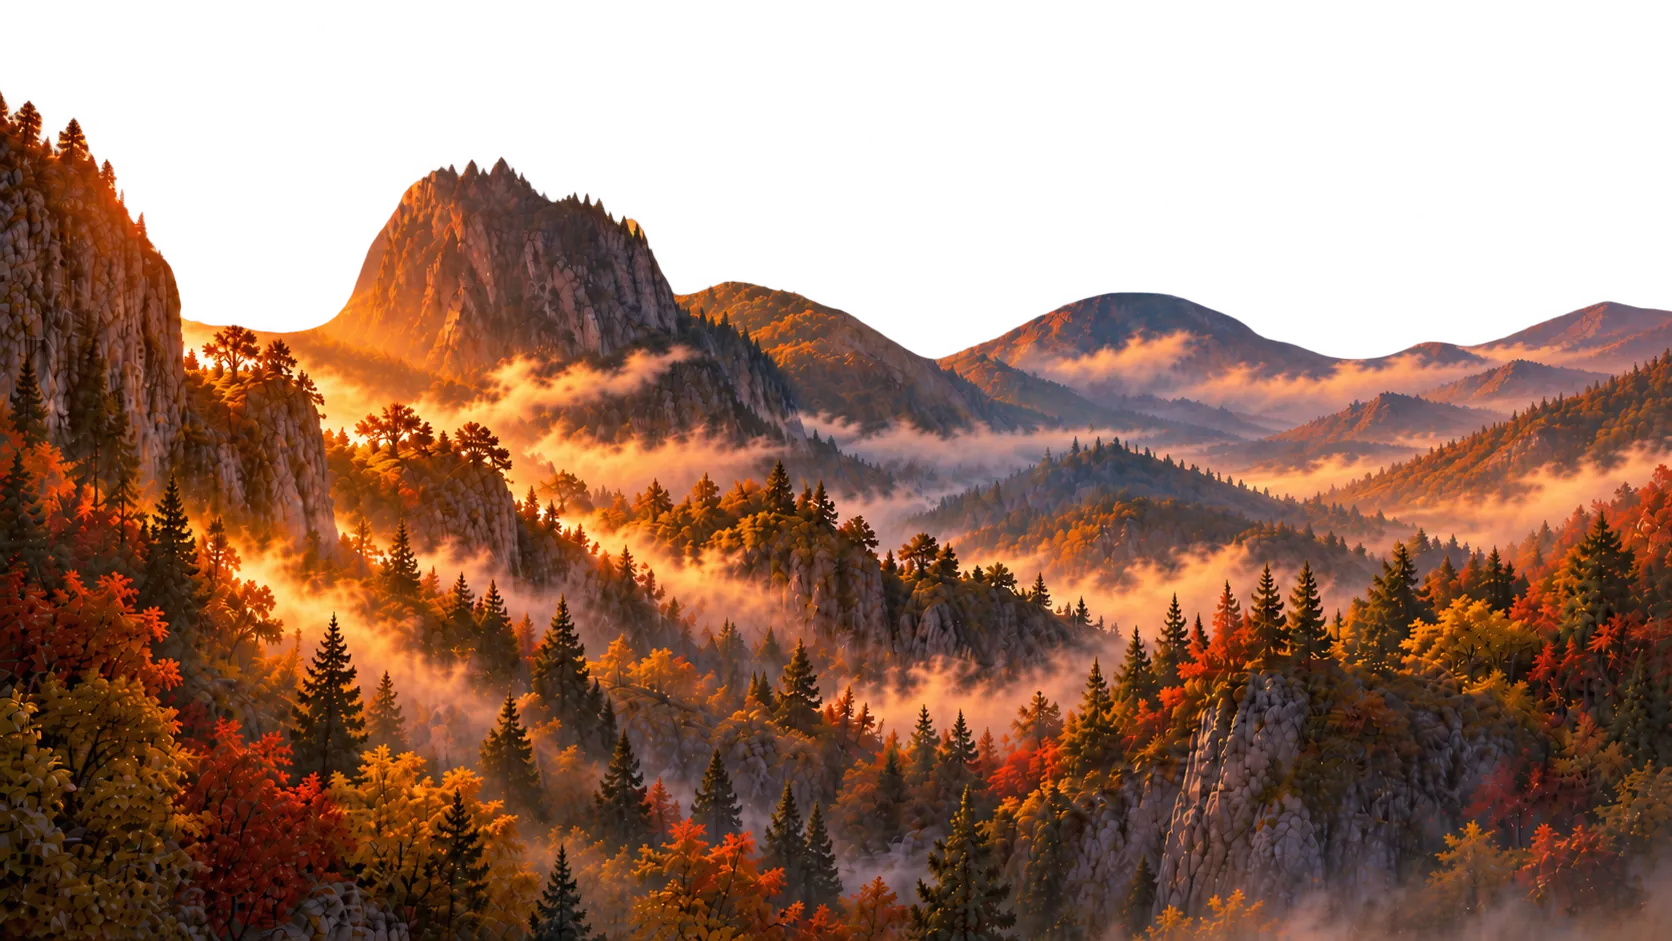
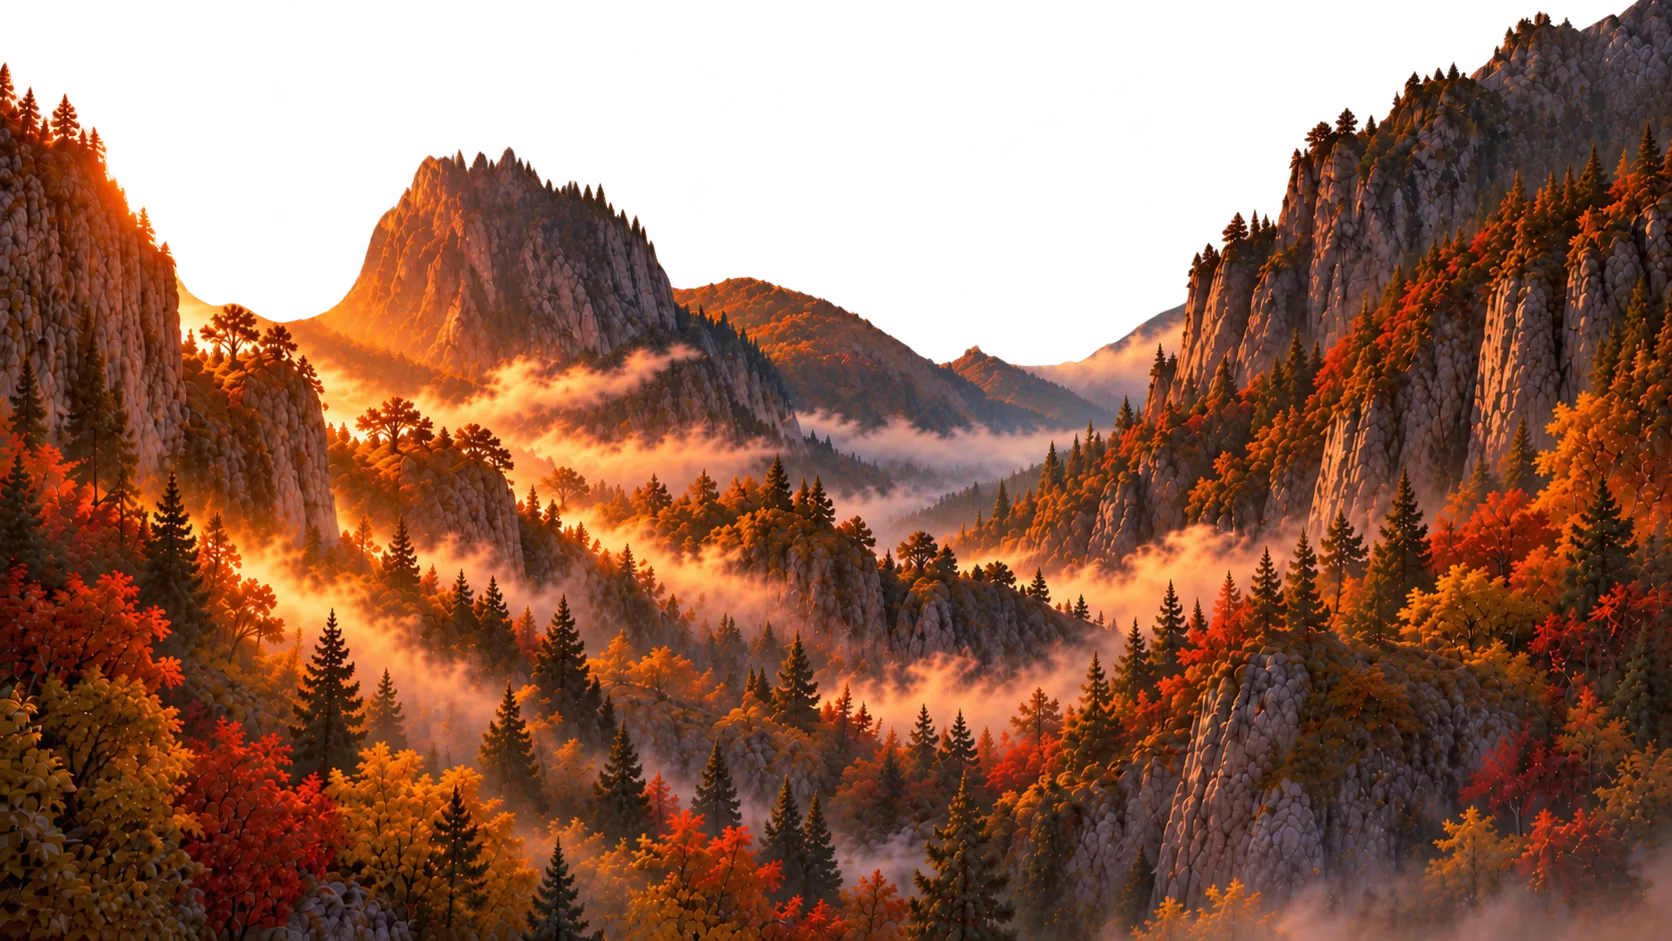
Menu theme: calmer, finer water off the bridges; seamless fog; steam at the big fall; new layer 3
Water: finer noise, slower flow, weaker displacement; the mask starts below the bridges and leaves out the columns. Fog texture blurred as a ring (no seam). Rays texture fades at its borders (it turns a little). Steam: soft puffs rising and swelling where the big fall meets the river (picture coordinates of layer 2).

Claude-Session: https://claude.ai/code/session_01L8aGjgA4exAss1WkdLM4Fb

diff --git a/apps/app/src/screens/menu/MenuBackground.tsx b/apps/app/src/screens/menu/MenuBackground.tsx
@@ -13,7 +13,7 @@ import { LOW_GFX } from "../../data/perf.ts";
 
 interface Layer { src: string; depth?: number; z?: number }
 interface Effect {
-  type: "fog" | "rays" | "leaves" | "water"; z?: number; src?: string; mask?: string; strength?: number; depth?: number; opacity?: number;
+  type: "fog" | "rays" | "leaves" | "water" | "steam"; width?: number; aspect?: number; z?: number; src?: string; mask?: string; strength?: number; depth?: number; opacity?: number;
   texture?: string; x?: number; y?: number; height?: number; speed?: number; flip?: boolean;
   atlas?: string; frames?: [number, number, number, number][]; count?: number; size?: [number, number]; wind?: number;
 }
@@ -102,12 +102,12 @@ void main() {
   vec4 m = texture2D(mask, uv);
   if (m.r < 0.01) { gl_FragColor = vec4(0.0); return; }
   float s = t * speed * mix(0.25, 1.0, m.g);
-  vec2 q = vec2(uv.x * 90.0, uv.y * 30.0 - s * 6.0);
+  vec2 q = vec2(uv.x * 170.0, uv.y * 60.0 - s * 2.2);
   float a = n(q) + 0.5 * n(q * 2.3 + 7.0);
   float b = n(q + 31.0) + 0.5 * n(q * 2.1 + 3.0);
   vec2 off = (vec2(a, b) - 0.75) * k * vec2(0.6, 1.4);
   vec4 c = texture2D(img, uv + off);
-  float streak = smoothstep(0.78, 1.0, n(vec2(uv.x * 220.0, uv.y * 14.0 - s * 9.0))) * 0.18;
+  float streak = smoothstep(0.8, 1.0, n(vec2(uv.x * 320.0, uv.y * 26.0 - s * 3.0))) * 0.12;
   float al = m.r * c.a;
   gl_FragColor = vec4((c.rgb + streak) * al, al);
 }`;
@@ -181,8 +181,72 @@ function Water({ e }: { e: Effect }) {
   return <canvas ref={canvas} className="pm-water" />;
 }
 
+/**
+ * Billowing steam (where a fall meets the river): soft puffs that rise, swell and fade, born along a short line at
+ * (x, y) of the layer's picture (fractions; the picture lies like background-size: cover, `aspect` = its width / height)
+ */
+function Steam({ e }: { e: Effect }) {
+  const canvas = useRef<HTMLCanvasElement>(null);
+  useEffect(() => {
+    const cv = canvas.current;
+    if (!cv || reduced()) return;
+    const ctx = cv.getContext("2d");
+    if (!ctx) return;
+    // one soft puff, drawn once
+    const puff = document.createElement("canvas");
+    puff.width = puff.height = 128;
+    const pc = puff.getContext("2d")!;
+    const gr = pc.createRadialGradient(64, 64, 0, 64, 64, 64);
+    gr.addColorStop(0, "rgba(255,246,236,0.55)"); gr.addColorStop(0.45, "rgba(255,240,226,0.25)"); gr.addColorStop(1, "rgba(255,236,220,0)");
+    pc.fillStyle = gr; pc.fillRect(0, 0, 128, 128);
+    const aspect = e.aspect ?? 16 / 9;
+    const n = Math.max(4, Math.round((e.count ?? 20) * (LOW_GFX ? 0.5 : 1)));
+    let W = 0, H = 0, dpr = 1, ox = 0, oy = 0, pw = 0, ph = 0;
+    const resize = () => {
+      dpr = Math.min(window.devicePixelRatio || 1, LOW_GFX ? 1 : 1.5);
+      W = cv.clientWidth; H = cv.clientHeight;
+      cv.width = Math.round(W * dpr); cv.height = Math.round(H * dpr);
+      // background-size: cover
+      if (W / H > aspect) { pw = W; ph = W / aspect; } else { ph = H; pw = H * aspect; }
+      ox = (W - pw) / 2; oy = (H - ph) / 2;
+    };
+    resize();
+    window.addEventListener("resize", resize);
+    const born = (age: number) => ({
+      u: (e.x ?? 0.5) + ((Math.random() - 0.5) * (e.width ?? 0.1)), age, life: 4 + Math.random() * 4,
+      r0: 0.012 + Math.random() * 0.01, grow: 0.025 + Math.random() * 0.03, rise: 0.012 + Math.random() * 0.016,
+      drift: (Math.random() - 0.5) * 0.01, spin: Math.random() * 6.3,
+    });
+    const all = Array.from({ length: n }, () => { const p = born(0); p.age = Math.random() * p.life; return p; });
+    let raf = 0, last = performance.now();
+    const tick = (now: number) => {
+      const dt = Math.min(0.05, (now - last) / 1000);
+      last = now;
+      ctx.setTransform(dpr, 0, 0, dpr, 0, 0);
+      ctx.clearRect(0, 0, W, H);
+      for (let i = 0; i < all.length; i++) {
+        const p = all[i]!;
+        p.age += dt;
+        if (p.age > p.life) { all[i] = born(0); continue; }
+        const k = p.age / p.life;
+        const x = ox + (p.u + p.drift * p.age) * pw;
+        const y = oy + ((e.y ?? 0.7) - p.rise * p.age) * ph;
+        const r = (p.r0 + p.grow * k) * pw;
+        // in quickly, out slowly
+        ctx.globalAlpha = (e.opacity ?? 0.5) * Math.min(1, k * 5) * (1 - k) * (1 - k);
+        ctx.drawImage(puff, x - r, y - r * 0.8, r * 2, r * 1.6);
+      }
+      raf = requestAnimationFrame(tick);
+    };
+    raf = requestAnimationFrame(tick);
+    return () => { cancelAnimationFrame(raf); window.removeEventListener("resize", resize); };
+  }, [e]);
+  return <canvas ref={canvas} className="pm-water" />;
+}
+
 function EffectView({ e }: { e: Effect }) {
   if (e.type === "leaves") return <Leaves e={e} />;
+  if (e.type === "steam") return <Steam e={e} />;
   if (e.type === "water") return <Water e={e} />;
   if (e.type === "fog" && e.texture) {
     return (

diff --git a/tools/menu-theme/build_theme.py b/tools/menu-theme/build_theme.py
@@ -120,10 +120,9 @@ def fog_texture(w=1024, h=384, seed=7):
     for cell, weight in [(128, 0.55), (64, 0.3), (24, 0.15)]:
         gw, gh = w // cell, max(2, h // cell)
         small = rng.random((gh, gw)).astype(np.float32)
-        # wrap horizontally: the first column repeats at the end before scaling
-        small = np.concatenate([small, small[:, :1]], axis=1)
-        img = Image.fromarray((small * 255).astype(np.uint8)).resize((w + cell, h), Image.BICUBIC).crop((0, 0, w, h))
-        img = img.filter(ImageFilter.GaussianBlur(cell / 2))
+        ring = np.concatenate([small, small, small], axis=1)
+        img = Image.fromarray((ring * 255).astype(np.uint8)).resize((3 * w, h), Image.BICUBIC)
+        img = img.filter(ImageFilter.GaussianBlur(cell / 2)).crop((w, 0, 2 * w, h))
         acc += np.asarray(img, np.float32) / 255 * weight
     acc = (acc - acc.min()) / (acc.max() - acc.min())
     acc = np.clip((acc - 0.35) * 1.8, 0, 1)
@@ -151,6 +150,10 @@ def rays_texture(sx, sy, w=1280, h=720, seed=3):
     fall = np.exp(-dist * 2.2) * np.clip(dist * 12, 0, 1)
     glow = np.exp(-(dist / 0.12) ** 2) * 0.8
     v = np.clip(beams * fall * 0.9 + glow, 0, 1)
+    # fade out at the picture's borders: the layer turns a little, its edge must not show
+    ex = np.clip(np.minimum(xx, w - 1 - xx) / (0.12 * w), 0, 1)
+    ey = np.clip(np.minimum(yy, h - 1 - yy) / (0.12 * h), 0, 1)
+    v *= (ex * ey) ** 1.5
     img = Image.fromarray((v * 255).astype(np.uint8)).filter(ImageFilter.GaussianBlur(3))
     v = np.asarray(img, np.float32) / 255
     rgb = np.dstack([v * 255, v * 214, v * 150]).astype(np.uint8)
@@ -169,7 +172,8 @@ def water_mask(img):
     yy /= h
     xx /= w
     water = (mx > 0.55) & (sat < 0.32) & (al > 0.5) & (b > r * 0.72)
-    region = ((xx > 0.33) & (xx < 0.84) & (yy > 0.40)) | ((xx > 0.38) & (xx < 0.95) & (yy > 0.85))
+    region = ((xx > 0.33) & (xx < 0.84) & (yy > 0.46)) | ((xx > 0.38) & (xx < 0.95) & (yy > 0.85))
+    region &= ~((xx > 0.73) & (xx < 0.84) & (yy < 0.6))
     m = Image.fromarray((water & region).astype(np.uint8) * 255).filter(ImageFilter.MaxFilter(5)).filter(ImageFilter.GaussianBlur(4))
     speed = np.clip((0.72 - yy) / 0.2, 0, 1) * 0.75 + 0.25
     g = Image.fromarray((speed * 255).astype(np.uint8))
@@ -188,11 +192,13 @@ def main():
         img = img.convert("RGBA" if img.mode == "RGBA" else "RGB")
         layers.append({"src": save_webp(img, f"{MENU}/layer{n}.webp", 80), "depth": depth[n], "z": (4 - n) * 10})
     effects_water = {"type": "water", "src": f"{MENU}/layer2.webp", "mask": save_webp(water_mask(Image.open(os.path.join(SRC, "2.png"))), f"{MENU}/water.webp", 90),
-                     "z": 21, "strength": 0.005, "speed": 1.0}
+                     "z": 21, "strength": 0.0025, "speed": 0.45}
     others = [f for f in os.listdir(SRC) if f.lower().endswith(".png") and f[:-4] not in ("1", "2", "3", "4")]
     rgba = [f for f in others if Image.open(os.path.join(SRC, f)).mode == "RGBA"]
+    l2 = Image.open(os.path.join(SRC, "2.png"))
     effects = [
         effects_water,
+        {"type": "steam", "z": 22, "x": 0.595, "y": 0.69, "width": 0.13, "count": 22, "aspect": round(l2.width / l2.height, 4), "opacity": 0.5},
         # the sun low over the far mountains, its rays through the valley
         {"type": "rays", "texture": save_webp(rays_texture(0.2, 0.2), f"{MENU}/rays.webp", 80), "z": 5, "x": 0.2, "y": 0.2, "opacity": 0.55},
         {"type": "fog", "texture": save_webp(fog_texture(), f"{MENU}/fog.webp", 85), "z": 15, "y": 0.42, "height": 0.35, "opacity": 0.55, "speed": 90},
